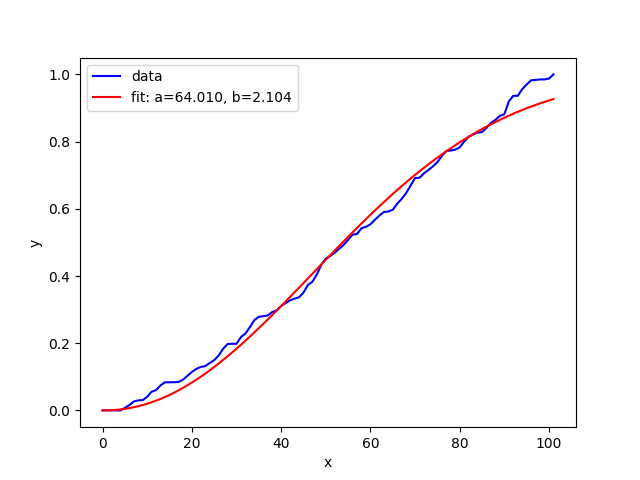
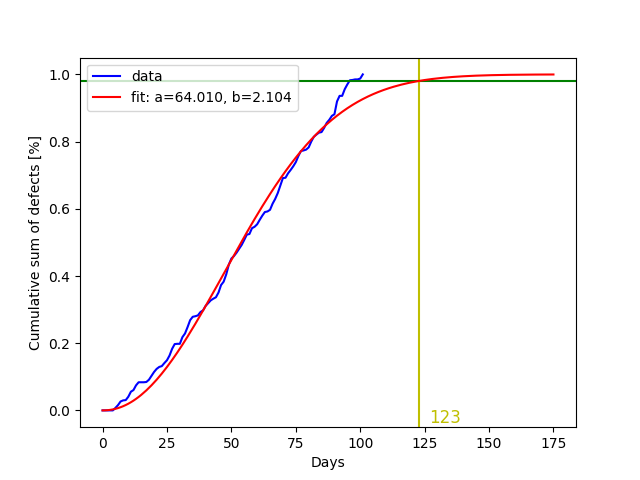
add intersection

diff --git a/models.py b/models.py
@@ -1,5 +1,5 @@
 import matplotlib.pyplot as plt
-from scipy.optimize import curve_fit
+from scipy.optimize import curve_fit, fsolve
 import numpy as np
 
 def normalizeData(data):
@@ -66,38 +66,60 @@ y_data = normalizeData(total_defects)
 xdata = np.asarray(xs)
 ydata = np.asarray(y_data)
 
+fit_x = np.arange(176)
+
+popt, pcov = curve_fit(rayleigh_cdf, xdata, ydata, bounds=[(0.001),(np.inf)])
+fit_y = rayleigh_cdf(fit_x, *popt)
+day_of_x_defects = fit_x[fit_y.searchsorted(0.98, 'left')]
 plt.plot(xdata, ydata, 'b-', label='data')
-popt, pcov = curve_fit(rayleigh_cdf, xdata, ydata, bounds=[(0.01),(np.inf)])
-plt.plot(xdata, rayleigh_cdf(xdata, *popt), 'r-', label='fit: a=%5.3f' % tuple(popt))
-plt.xlabel('x')
-plt.ylabel('y')
+plt.axhline(y=0.98, color='g', linestyle='-')
+plt.axvline(x=day_of_x_defects, color='y', linestyle='-')
+plt.text(day_of_x_defects + 10, -0.05, f'{day_of_x_defects}', color='y', fontsize=12, ha='center', va='bottom')
+plt.plot(fit_x, fit_y, 'r-', label='fit: a=%5.3f' % tuple(popt))
+plt.xlabel('Days')
+plt.ylabel('Cumulative sum of defects [%]')
 plt.legend()
 plt.savefig('figures/fits/rayleigh.png')
 plt.close()
 
+popt, pcov = curve_fit(weibull_cdf, xdata, ydata, bounds=[(0.001, 0.001),(np.inf, np.inf)])
+fit_y = weibull_cdf(fit_x, *popt)
+day_of_x_defects = fit_x[fit_y.searchsorted(0.98, 'left')]
 plt.plot(xdata, ydata, 'b-', label='data')
-popt, pcov = curve_fit(weibull_cdf, xdata, ydata, bounds=[(0.01, 0.01),(np.inf, np.inf)])
-plt.plot(xdata, weibull_cdf(xdata, *popt), 'r-', label='fit: a=%5.3f, b=%5.3f' % tuple(popt))
-plt.xlabel('x')
-plt.ylabel('y')
+plt.axhline(y=0.98, color='g', linestyle='-')
+plt.axvline(x=day_of_x_defects, color='y', linestyle='-')
+plt.text(day_of_x_defects + 10, -0.05, f'{day_of_x_defects}', color='y', fontsize=12, ha='center', va='bottom')
+plt.plot(fit_x, fit_y, 'r-', label='fit: a=%5.3f, b=%5.3f' % tuple(popt))
+plt.xlabel('Days')
+plt.ylabel('Cumulative sum of defects [%]')
 plt.legend()
 plt.savefig('figures/fits/weibull.png')
 plt.close()
 
+popt, pcov = curve_fit(logistic_cdf, xdata, ydata, bounds=[(-np.inf, 0.001),(np.inf, np.inf)])
+fit_y = logistic_cdf(fit_x, *popt)
+day_of_x_defects = fit_x[fit_y.searchsorted(0.98, 'left')]
 plt.plot(xdata, ydata, 'b-', label='data')
-popt, pcov = curve_fit(logistic_cdf, xdata, ydata, bounds=[(-np.inf, 0.01),(np.inf, np.inf)])
-plt.plot(xdata, logistic_cdf(xdata, *popt), 'r-', label='fit: a=%5.3f, b=%5.3f' % tuple(popt))
-plt.xlabel('x')
-plt.ylabel('y')
+plt.axhline(y=0.98, color='g', linestyle='-')
+plt.axvline(x=day_of_x_defects, color='y', linestyle='-')
+plt.text(day_of_x_defects + 10, -0.05, f'{day_of_x_defects}', color='y', fontsize=12, ha='center', va='bottom')
+plt.plot(fit_x, fit_y, 'r-', label='fit: a=%5.3f, b=%5.3f' % tuple(popt))
+plt.xlabel('Days')
+plt.ylabel('Cumulative sum of defects [%]')
 plt.legend()
 plt.savefig('figures/fits/logistic.png')
 plt.close()
 
-plt.plot(xdata, ydata, 'b-', label='data')
 popt, pcov = curve_fit(lyu_cdf, xdata, ydata)
-plt.plot(xdata, lyu_cdf(xdata, *popt), 'r-', label='fit: a=%5.3f, b=%5.3f' % tuple(popt))
-plt.xlabel('x')
-plt.ylabel('y')
+fit_y = lyu_cdf(fit_x, *popt)
+day_of_x_defects = fit_x[fit_y.searchsorted(0.98, 'left')]
+plt.plot(xdata, ydata, 'b-', label='data')
+plt.axhline(y=0.98, color='g', linestyle='-')
+plt.axvline(x=day_of_x_defects, color='y', linestyle='-')
+plt.text(day_of_x_defects + 10, -0.05, f'{day_of_x_defects}', color='y', fontsize=12, ha='center', va='bottom')
+plt.plot(fit_x, fit_y, 'r-', label='fit: a=%5.3f, b=%5.3f' % tuple(popt))
+plt.xlabel('Days')
+plt.ylabel('Cumulative sum of defects [%]')
 plt.legend()
 plt.savefig('figures/fits/lyu.png')
 plt.close()
